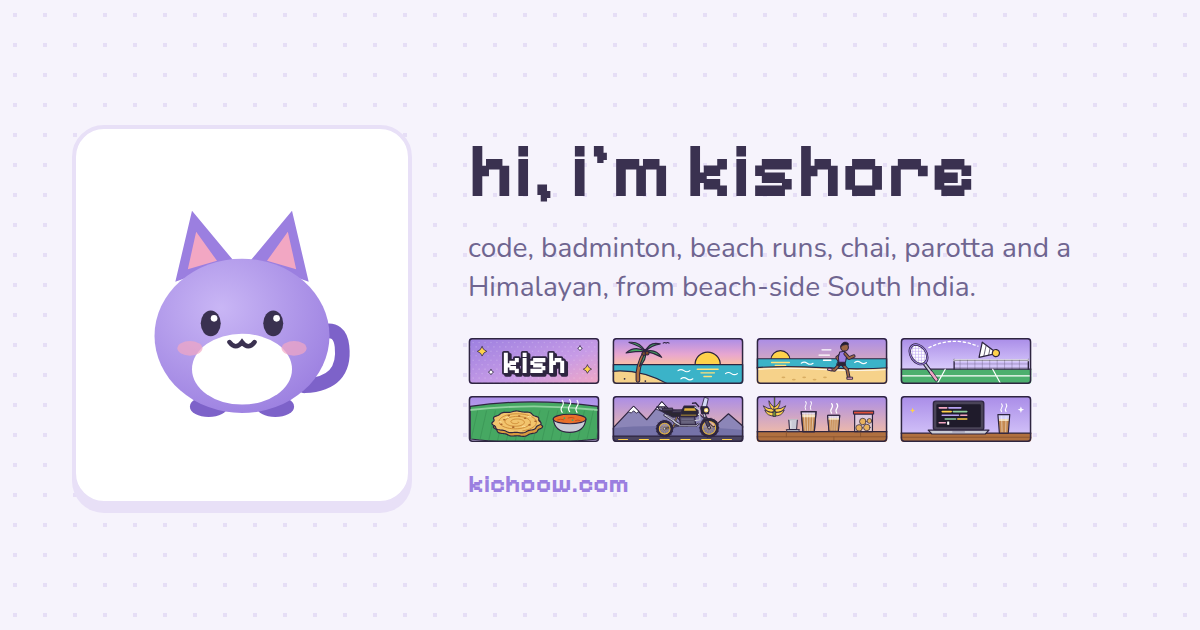
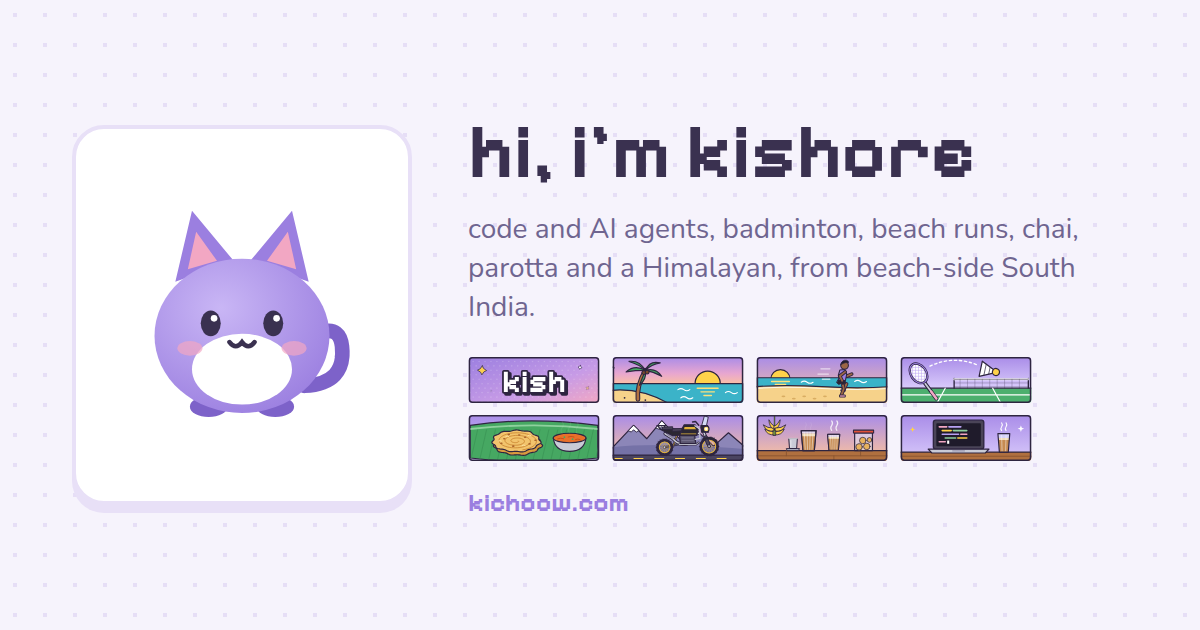
Moving 88×31 buttons, a real running man, and GIFs for other sites (#68)
- Each button animates itself with a little CSS inside the SVG: waves,
  a sun glint and a bird (beach), the shot (badminton), steam (chai,
  parotta), the road (Himalayan), sparkles (kish), a cursor (coding).
  Everything stops with reduced motion.
- The runner is a 4-frame sprite, as in 2D games: contact, passing,
  then the same with the other leg, with a small bob.
- Other sites now copy an animated GIF, the classic 88×31 format.
  npm run og makes them: it stops the SVG's animations at each frame
  time (Web Animations API), takes each frame in Chromium and encodes it
  with gifenc (a dev dependency). data-loop and data-frame on each
  <svg> give the loop and a sprite's frame time, so GIFs loop cleanly.
  The share card uses still buttons. The old PNGs stay for old embeds.
- Mascot: a hold is judged by the real press time (event time stamps),
  so a quick tap on a busy phone is never taken as a hold.

Claude-Session: https://claude.ai/code/session_01BcUn72fgg1qVovTzyAupzv

Changed region(s): [[0.37, 0.2111, 0.8942, 0.8143]]

diff --git a/tests/ui.spec.ts b/tests/ui.spec.ts
@@ -271,6 +271,33 @@ test.describe('home page', () => {
     await expect(page.locator('.bubble.show')).toHaveText('welcome back! ♥')
   })
 
+  test('the 88×31 buttons move (and stop with reduced motion); each has a looping GIF for other sites', async ({ page }) => {
+    await page.goto('/')
+    const files = await page.locator('.buttons img').evaluateAll((els) =>
+      els.map((e) => (e as HTMLImageElement).src).filter((s) => /\/button[^/]*\.svg$/.test(s)),
+    )
+    expect(files.length).toBeGreaterThan(0)
+    // Fetched in the page: the test site's host name leads to the local server only there.
+    const get = (url: string) =>
+      page.evaluate(async (u) => {
+        const r = await fetch(u)
+        return { type: r.headers.get('content-type'), text: await r.clone().text(), bytes: [...new Uint8Array(await r.arrayBuffer())] }
+      }, url)
+    for (const src of files) {
+      const svg = (await get(src)).text
+      expect(svg).toContain('@keyframes')
+      expect(svg).toContain('prefers-reduced-motion: reduce')
+      expect(Number(/data-loop="([\d.]+)"/.exec(svg)?.[1])).toBeGreaterThan(0)
+      const gif = await get(src.replace(/\.svg$/, '.gif'))
+      expect(gif.type).toBe('image/gif')
+      const bytes = Buffer.from(gif.bytes)
+      expect(bytes.subarray(0, 6).toString()).toBe('GIF89a')
+      expect([bytes.readUInt16LE(6), bytes.readUInt16LE(8)]).toEqual([88, 31]) // the logical screen size
+      expect(bytes.includes(Buffer.from('NETSCAPE2.0'))).toBe(true) // loops forever
+    }
+  })
+
+
   test('mascot hearts are hidden with reduced motion', async ({ page, press }) => {
     await page.emulateMedia({ reducedMotion: 'reduce' })
     await page.goto('/')
@@ -288,7 +315,7 @@ test.describe('home page', () => {
     await expect(page.locator('[data-sonner-toast]')).toContainText('copied')
     const copied = await page.evaluate(() => window.__copies)
     expect(copied).toHaveLength(1)
-    expect(copied[0]).toContain('http://kichoow.com/button-parotta.png')
+    expect(copied[0]).toContain('http://kichoow.com/button-parotta.gif')
     expect(copied[0]).toContain('width="88" height="31"')
     await expectEvents(log, isMobile ? [`Button copy: ${label}`] : [`Button hover: ${label}`, `Button copy: ${label}`])
   })

diff --git a/src/components/Mascot.tsx b/src/components/Mascot.tsx
@@ -1,4 +1,4 @@
-import { useEffect, useImperativeHandle, useRef, useState, type CSSProperties, type ReactNode, type Ref, type RefObject } from 'react'
+import { useEffect, useImperativeHandle, useRef, useState, type CSSProperties, type PointerEvent as ReactPointerEvent, type ReactNode, type Ref, type RefObject } from 'react'
 import { useIsClient } from '../lib/client'
 import { site } from '../data'
 import { chaiIcon } from './ChaiIcon'
@@ -252,6 +252,7 @@ export function Mascot({
   const timer = useRef<number>(undefined)
   const hold = useRef<number>(undefined)
   const held = useRef(false)
+  const downAt = useRef(0)
   const recent = useRef<number[]>([])
   const mine = useRef(0)
   const root = useRef<HTMLDivElement>(null)
@@ -299,9 +300,12 @@ export function Mascot({
     return () => removeEventListener('keydown', key)
   }, [])
 
-  // Hold the cat to make it purr (long press); the click after a hold is not a pat.
-  const press = () => {
+  // Hold the cat to make it purr (long press); the click after a hold is not a pat. A hold is judged
+  // by the real press time (event time stamps), not only by the timer: on a busy phone a quick tap's
+  // pointerup can wait in the queue past the timer, and it must still count as a pat.
+  const press = (e: ReactPointerEvent<HTMLButtonElement>) => {
     held.current = false
+    downAt.current = e.timeStamp
     window.clearTimeout(hold.current)
     hold.current = window.setTimeout(() => {
       held.current = true
@@ -311,7 +315,10 @@ export function Mascot({
       track('Mascot purr')
     }, HOLD_MS)
   }
-  const release = () => window.clearTimeout(hold.current)
+  const release = (e: ReactPointerEvent<HTMLButtonElement>) => {
+    window.clearTimeout(hold.current)
+    if (e.type === 'pointerup' && e.timeStamp - downAt.current < HOLD_MS) held.current = false
+  }
   // A tap on the cat: a pat, unless it ended a hold. Counted here, not with data-umami-event, so a
   // hold is not also counted as a pat.
   const tap = () => {

diff --git a/src/components/Buttons.tsx b/src/components/Buttons.tsx
@@ -3,9 +3,11 @@ import { trackHover } from '../lib/track'
 import { friends, myButtons } from '../data'
 import { Card } from './Card'
 
-// Other sites get the PNG (works everywhere); this page shows the sharper SVG.
+// Other sites get the animated GIF (npm run og makes it), the classic 88×31 format every site and
+// forum takes; this page shows the sharper SVG, which moves by itself. The old PNGs stay for the sites
+// that already use them.
 const embed = (file: string, alt: string) =>
-  `<a href="${location.origin}"><img src="${location.origin}/${file}.png" width="88" height="31" alt="${alt}"></a>`
+  `<a href="${location.origin}"><img src="${location.origin}/${file}.gif" width="88" height="31" alt="${alt}"></a>`
 
 async function copyEmbed(file: string, alt: string) {
   try {

diff --git a/README.md b/README.md
@@ -20,7 +20,7 @@ Coding agents: read [AGENTS.md](AGENTS.md) for the rules, commands, tests and ho
 | Right now: building | Latest public GitHub push | `github` in `src/data.ts` |
 | Right now: local time | Browser | `timeZone` in `src/data.ts` |
 | Counts: parotta, chai, beach days | The `/log` page → D1 | `SCROBBLE_TOKEN` (below) |
-| Updates, 88×31 buttons | `src/data.ts`, `public/*.svg` | Nothing |
+| Updates, 88×31 buttons (they move; other sites get looping GIFs) | `src/data.ts`, `public/*.svg`, `public/*.gif` | Nothing |
 | Photos: the newest 6 of a shared album (videos too) | A public Google Photos shared album | `photosAlbum` in `src/data.ts` |
 | ⌘K menu | cmdk | Nothing |
 
@@ -227,7 +227,9 @@ Each push to `main` then builds and deploys. From the command line: `npx wrangle
 - `npm run build` pre-renders the page into `dist/index.html` (`src/entry-server.tsx`, `scripts/prerender.mjs`), so search engines and AI crawlers see the content without running JavaScript. It also inlines the stylesheet ([Beasties](https://github.com/danielroe/beasties)) and preloads the two Latin fonts, so the first paint needs no extra request. Parts that depend on the visitor's clock (mascot mode, local time, counts) render in the browser only (`src/lib/client.ts`).
 - `seo.ts` (a Vite plugin) builds the title, description, canonical, Open Graph / Twitter tags, JSON-LD (`ProfilePage` + `Person`), `robots.txt`, `sitemap.xml` and `llms.txt` from `src/data.ts`. Set `site.url` there to the public address.
 - `public/og.png` (1200×630) is the share card; `public/apple-touch-icon.png`, `public/icon-512.png` and `public/manifest.webmanifest` are the app icons.
-- The card and icons are made from `scripts/og/template.html` and `scripts/og/mascot.svg`. The buttons, description and domain come from `src/data.ts`. After you add a button, make them again:
+- **Moving 88×31 buttons:** each `public/button*.svg` animates itself with a little CSS inside the SVG (steam, waves, a bird, the road, sparkles, a blinking cursor; the runner is a 4-frame sprite: contact, passing, then the other leg). It stops with reduced motion. `data-loop` on the `<svg>` is the time after which every animation repeats, and `data-frame` a sprite's frame time.
+- **Other sites** copy an animated GIF (`public/button*.gif`), the classic 88×31 format every site and forum takes. `npm run og` makes them: it stops the SVG's animations at each frame time (Web Animations API), takes each frame in Chromium and encodes it with [gifenc](https://github.com/mattdesl/gifenc). The old PNGs stay for sites that already use them.
+- The card and icons are made from `scripts/og/template.html` and `scripts/og/mascot.svg` (with still buttons). The buttons, description and domain come from `src/data.ts`. After you add or change a button, make them again:
 
   ```sh
   npx playwright install chromium   # once

diff --git a/AGENTS.md b/AGENTS.md
@@ -55,7 +55,7 @@ npm run build        # type-check, build, pre-render, service worker → dist/
 npm run lint         # oxlint
 npm run audit        # build, then the UI tests (not `npm audit`, which is npm's dependency check)
 npm run preview      # build, then the Worker and the site locally (wrangler dev)
-npm run og           # remake the share card and icons after changing the 88×31 buttons
+npm run og           # remake the share card, icons and button GIFs after changing the 88×31 buttons
 npm run cf-typegen   # regenerate Worker types after changing wrangler.jsonc
 ```
 
